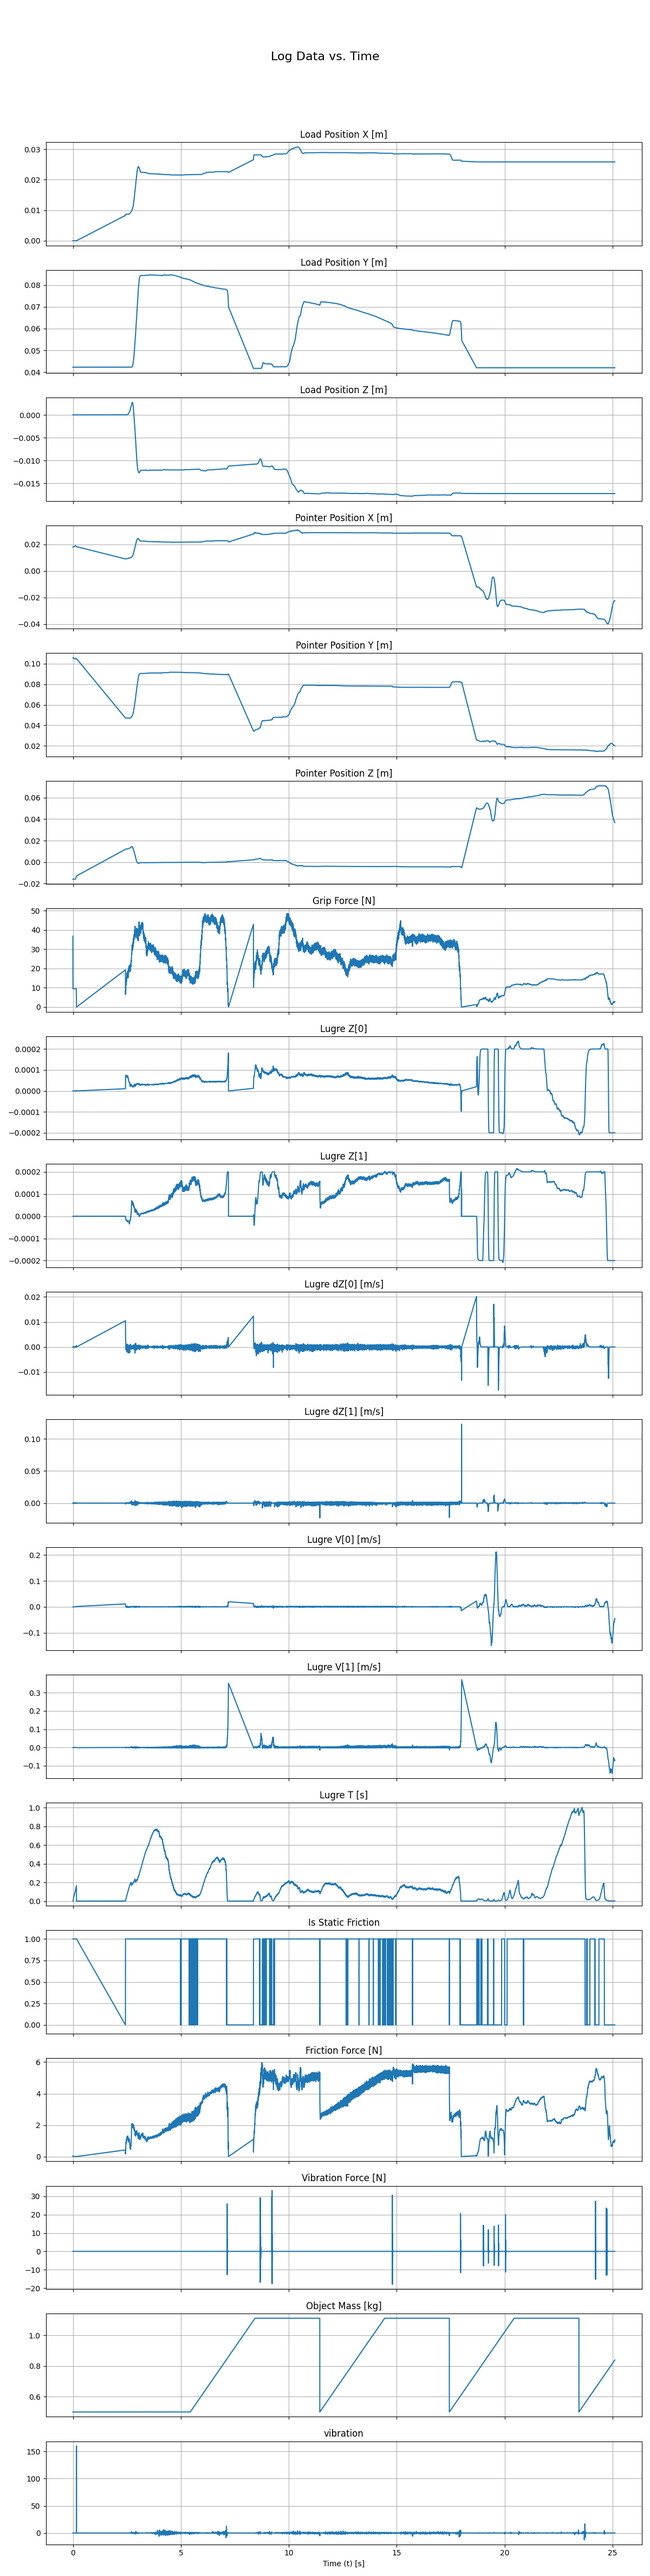
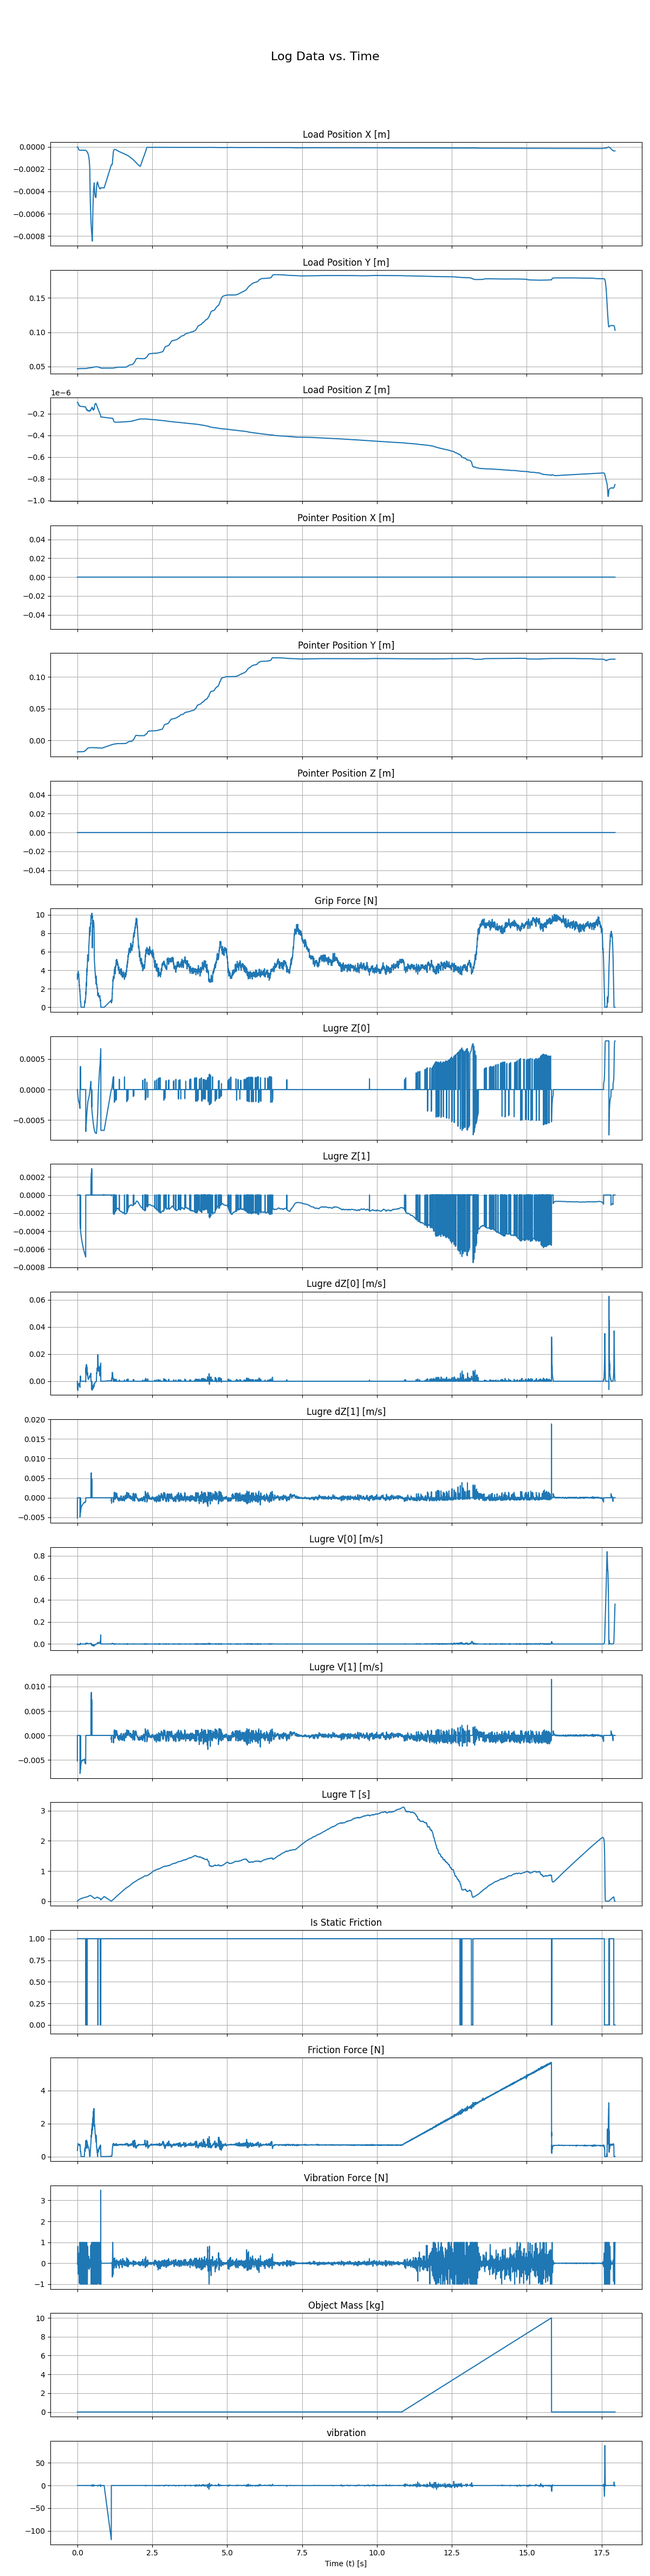
Commit latest files.

diff --git a/MultiFinger.cpp b/MultiFinger.cpp
@@ -9,7 +9,7 @@
 #include "Logger.hpp"
 
 
-#define USER_NUM 15
+#define USER_NUM 3
 
 //Constructor 
 MultiFinger::MultiFinger(){
@@ -27,6 +27,7 @@ MultiFinger::MultiFinger(){
 	inContact = false;
 	currentPushForce = 0.0f;
 	dof6 = false;
+	set_force_manual = false;
 }
 
 //main function of the class
@@ -247,7 +248,7 @@ void MultiFinger::TimerFunc(int id){
 		if (flexiforce) {
 			// bad calibration! m = -1.5716   b = 2.7717  //  -2.4914    4.6105
 			float volts = flexiforce->Voltage();
-			const double a = 0.05;
+			const double a = 0.01;
 			flexiforceValue = a * (0.4*(volts - offset)) + (1.0 - a) * flexiforce_p;
 			flexiforce_p = flexiforceValue;
 			properGraspForce = IsGraspForceProper(flexiforceValue);
@@ -289,7 +290,7 @@ void MultiFinger::TimerFunc(int id){
 				static bool prev_is_static = false;
 				Vec3d cv, cw;
 				cp->GetRelativeVelocity(cv, cw);
-				bool is_static = cv.norm() <= 5.0e-2;//cp->IsStaticFriction();
+				bool is_static = cv.norm() <= 2.0e-2;//cp->IsStaticFriction();
 				if (!is_static && prev_is_static) {
 					// Transition from static to dynamic friction
 					stickSlipTime.push_back(t);
@@ -405,10 +406,13 @@ void MultiFinger::TimerFunc(int id){
 			totalForce = Vec3d::Zero();
 		if (bVibrationFeedback)
 			totalForce.y += vib;
-		if(!dof6)
+		if (set_force_manual)
+			spidar->SetForce(Vec3d(-8.0*0.707f, 0.0f, 8.0*0.707f), Vec3d::Zero());
+		else if(!dof6)
 			spidar->SetForce(-fs * totalForce, Vec3f());	
 		else
 			spidar->SetForce(-fs * totalForce, -ts * totalTorque);
+		
 		spidar->Update(pdt);  //updates the forces displayed in SPIDAR
 		//MultiFingerStep(&spidarForce);  //This function computes the lineal and rotational couplings value
 		//spidar->SetForce(-spidarForce);  //This function set the force 
@@ -536,6 +540,10 @@ void MultiFinger::Keyboard(int key, int x, int y){
 		break;
 	case DVKeyCode::PAGE_DOWN:
 		pose.PosZ() += d;
+		break;
+	case 'a':
+		set_force_manual = !set_force_manual;
+		std::cout << "Manual Set Force : " << set_force_manual << std::endl;
 		break;
 	case 'f':
 		bForceFeedback = !bForceFeedback;

diff --git a/conditions.cpp b/conditions.cpp
@@ -5,6 +5,7 @@ using namespace Spr;
 
 #define DMDT 2.0f  // N/s
 
+#if 0
 Condition conditions[CONDITION_COUNT] = {
     // COULOMB_100G
     Condition(
@@ -37,7 +38,44 @@ Condition conditions[CONDITION_COUNT] = {
         DMDT
     )
 }; 
+#else
+Condition conditions[CONDITION_COUNT] = {
+    // LUGRE_100G
+    Condition(
+        FrictionModel::LUGRE,
+        1000.0, 30.00, 1.0,
+        0.8, 0.1, 0.01,
+        0.100,      // 100g
+        DMDT
+    ),
+    // LUGRE_150G
+    Condition(
+        FrictionModel::LUGRE,
+        1000.0, 30.00, 1.0,
+        0.8, 0.1, 0.01,
+        0.150,      // 150g
+        DMDT
+    ),
+    // LUGRE_100G
+    Condition(
+        FrictionModel::LUGRE_TV,
+        1000.0, 30.00, 1.0,
+        0.8, 0.01, 400.0,
+        0.100,      // 100g
+        DMDT
+    ),
+    // LUGRE_150G
+    Condition(
+        FrictionModel::LUGRE_TV,
+        1000.0, 30.00, 1.0,
+        0.8, 0.01, 400.0,
+        0.150,      // 150g
+        DMDT
+    )
+};
 
+
+#endif
 int seq[16][20] = {
     // --- Group 1 
     {2,0,3,1,  1,3,0,2,  0,2,1,3,  3,1,2,0,  1,0,3,2}, // ID 0
